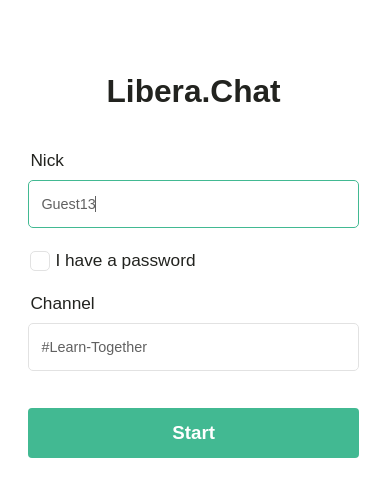
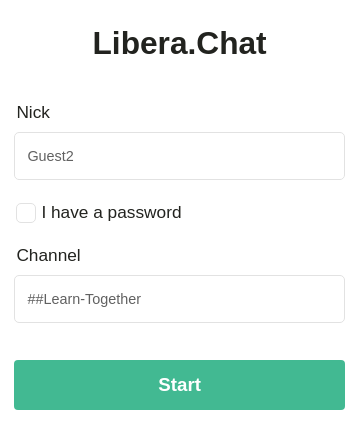
irc update

diff --git a/about.md b/about.md
@@ -17,10 +17,10 @@ title: About This Site
 
 如果你有好的意见或建议，或者有什么问题想交流，欢迎随时联系我！
 
-IRC频道： #Learn-Together
+IRC频道： ##Learn-Together
 
 服务器：irc.libera.chat
 
-[Webchat With Me](https://web.libera.chat/#Learn-Together)
+[Webchat With Me](https://web.libera.chat/##Learn-Together)
 
 [如果你对IRC比较陌生可以看一下这里我的IRC简单介绍。--如何使用IRC聊天](https://kongpengju.com/blog/2019/07/18/irc-chat-with-me/)

diff --git a/blog/_posts/2018-06-27-terminal_irc.md b/blog/_posts/2018-06-27-terminal_irc.md
@@ -8,8 +8,8 @@ tags:
 明天就考试了，写了篇作文，复习了一遍功课。申请了个IRC聊天频道 
 
 ```bash
-/server chat.freenode.net
-/join #Learn_Together
+/server irc.libera.chat
+/join ##Learn-Together
 ```
 
 让妈妈帮我设置了下 Terminal 颜色。 忙碌的一天！
